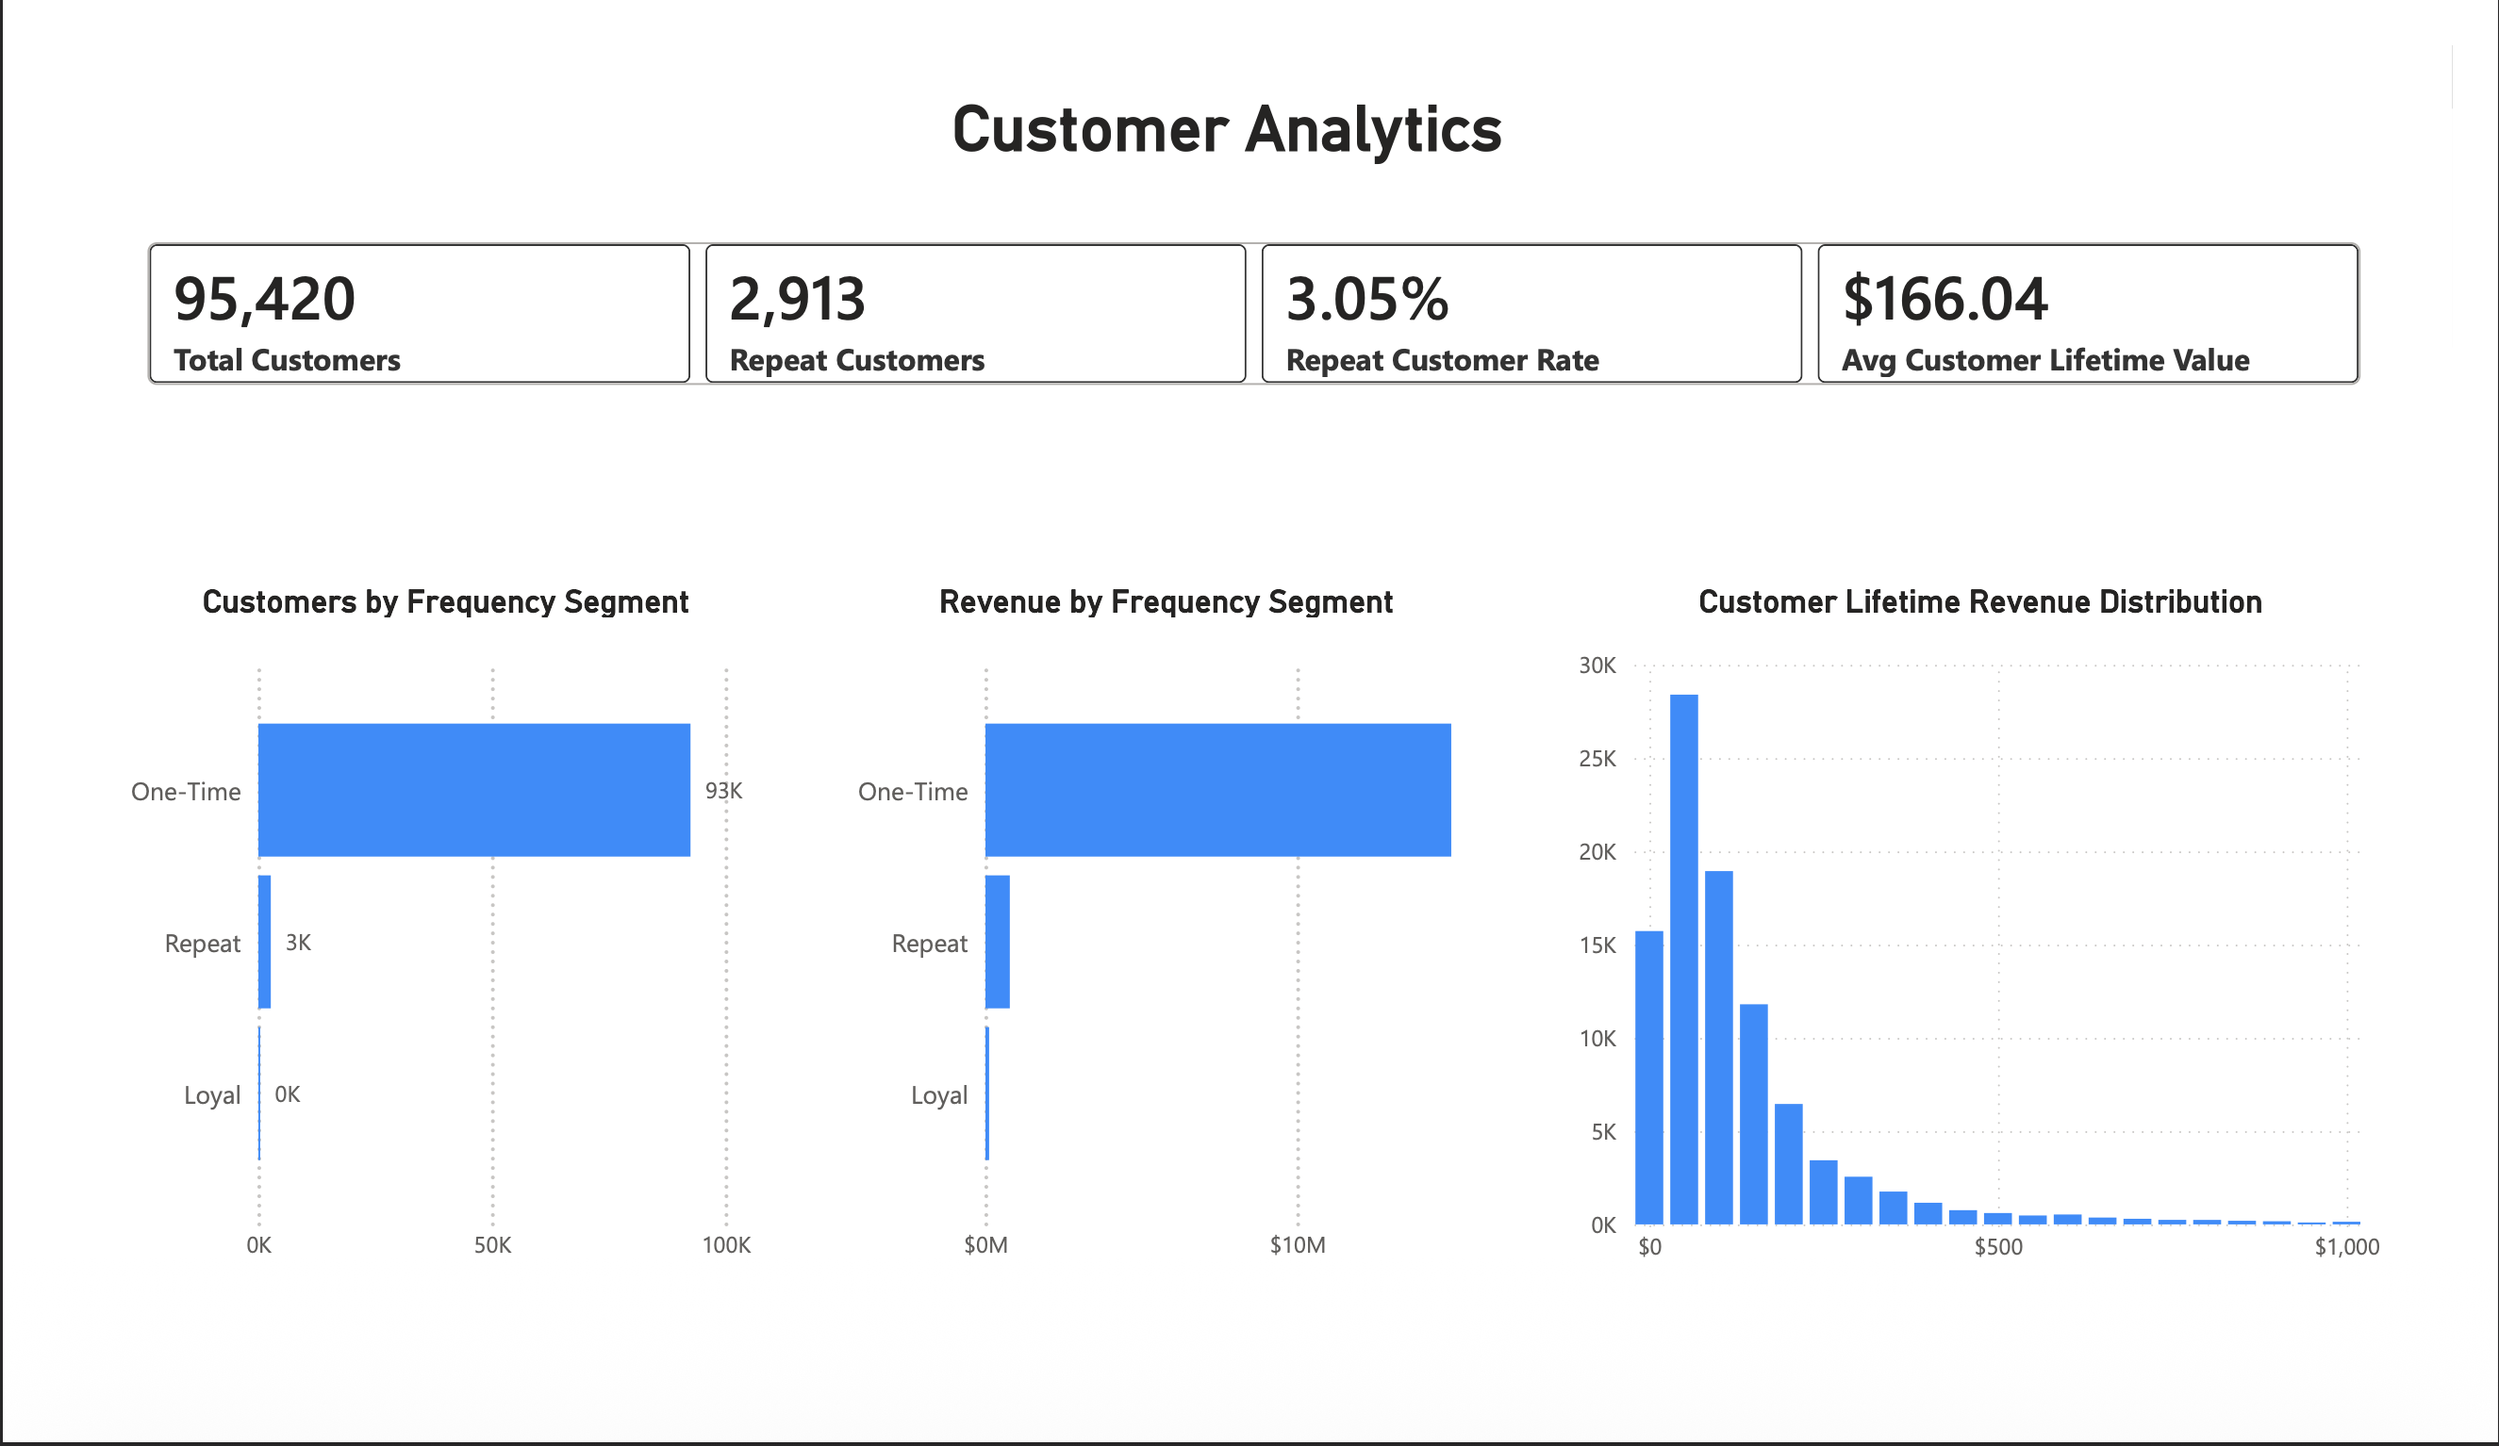
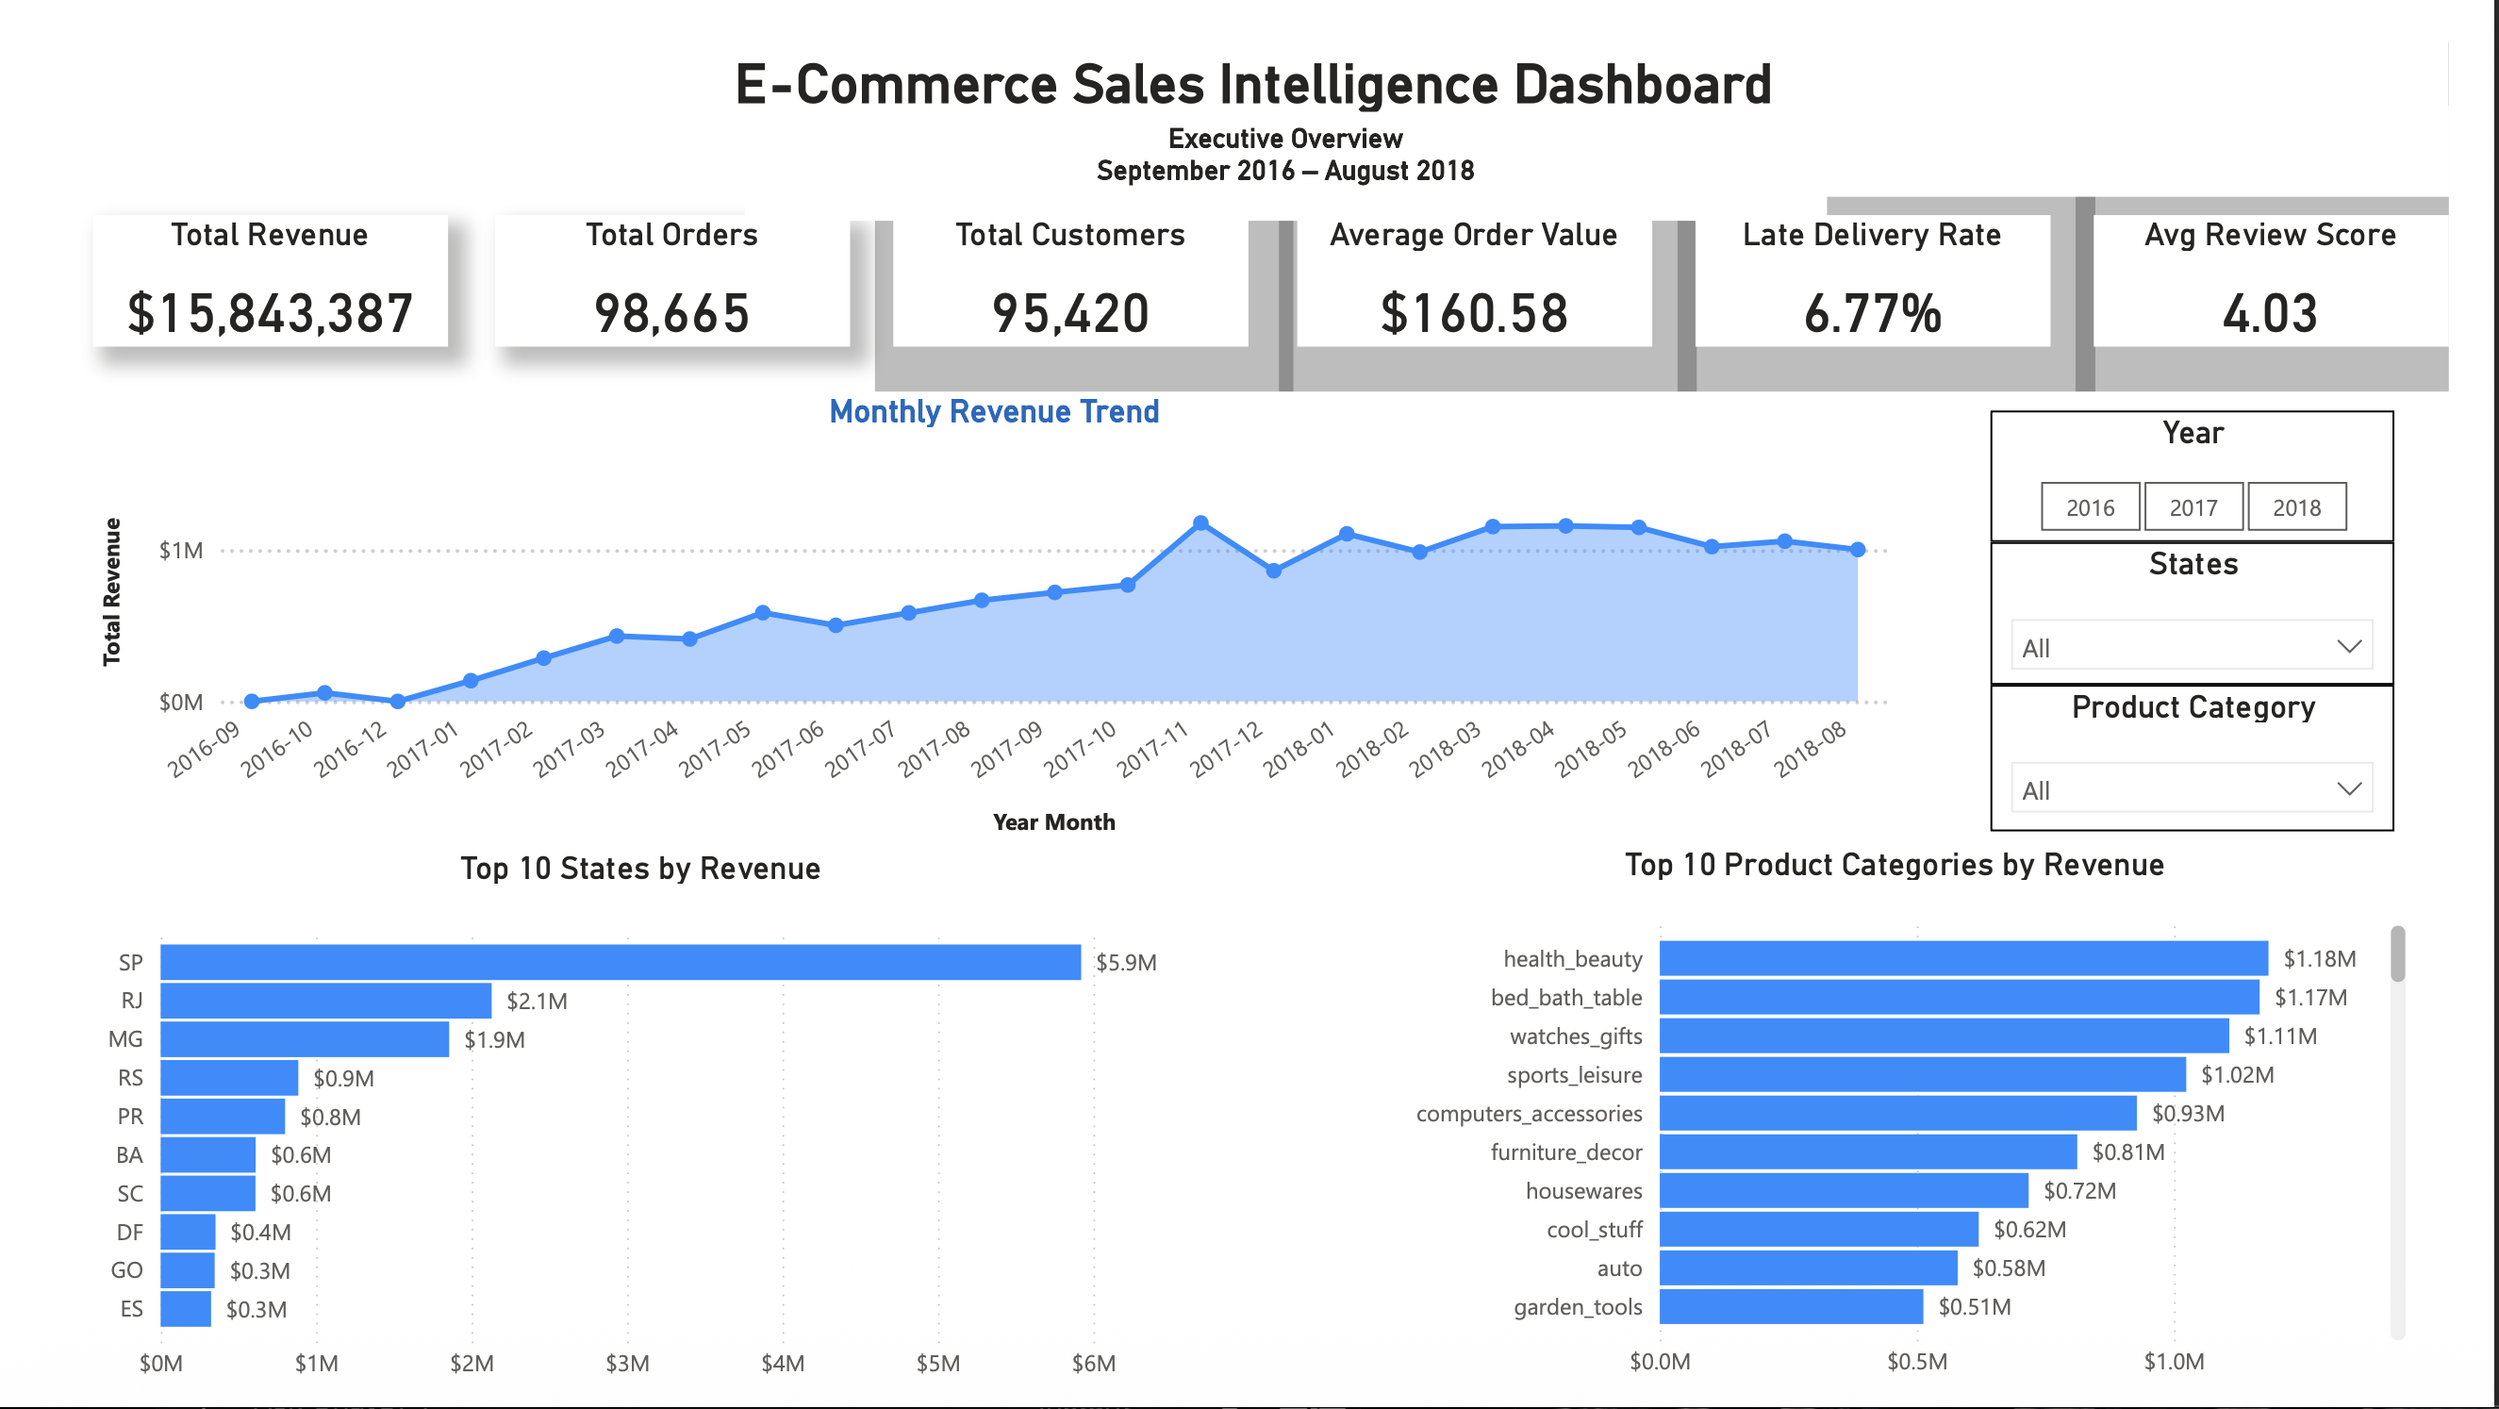
Fix dashboard screenshot links

diff --git a/README.md b/README.md
@@ -1,3 +1,8 @@
+![Python](https://img.shields.io/badge/Python-3.13-blue)
+![Power BI](https://img.shields.io/badge/Power%20BI-Dashboard-yellow)
+![SQL](https://img.shields.io/badge/SQL-DuckDB-orange)
+![Pandas](https://img.shields.io/badge/Pandas-Data%20Engineering-purple)
+
 # E-Commerce Sales Intelligence Dashboard
 
 An end-to-end analytics project that transforms ~100,000 raw e-commerce transaction records into an executive-ready Power BI dashboard, covering revenue performance, customer behavior, and operational efficiency for a Brazilian online marketplace.
@@ -33,18 +38,23 @@ The Power BI dashboard is organized into three pages, each built for a different
 
 Key design decisions included building a custom state-name mapping layer to resolve geocoding mismatches on the Brazil shape map, and using DAX-driven color saturation and tooltips to make the operations map interactive and self-explanatory for non-technical viewers.
 
+## Dashboard Preview
+
 ### Executive Overview
 
-![Executive Dashboard](powerbi/dashboard_screenshots/executive_overview.png)
+![Executive Overview](powerbi/dashboard_screenshots/executive_overview.png)
+
+---
 
 ### Customer Analytics
 
 ![Customer Analytics](powerbi/dashboard_screenshots/customer_analytics.png)
 
+---
+
 ### Operations & Performance
 
-![Operations Dashboard](powerbi/dashboard_screenshots/operations_dashboard.png)
----
+![Operations Dashboard](powerbi/dashboard_screenshots/operations_performance.png)
 
 ## Tech Stack and Workflow
 
